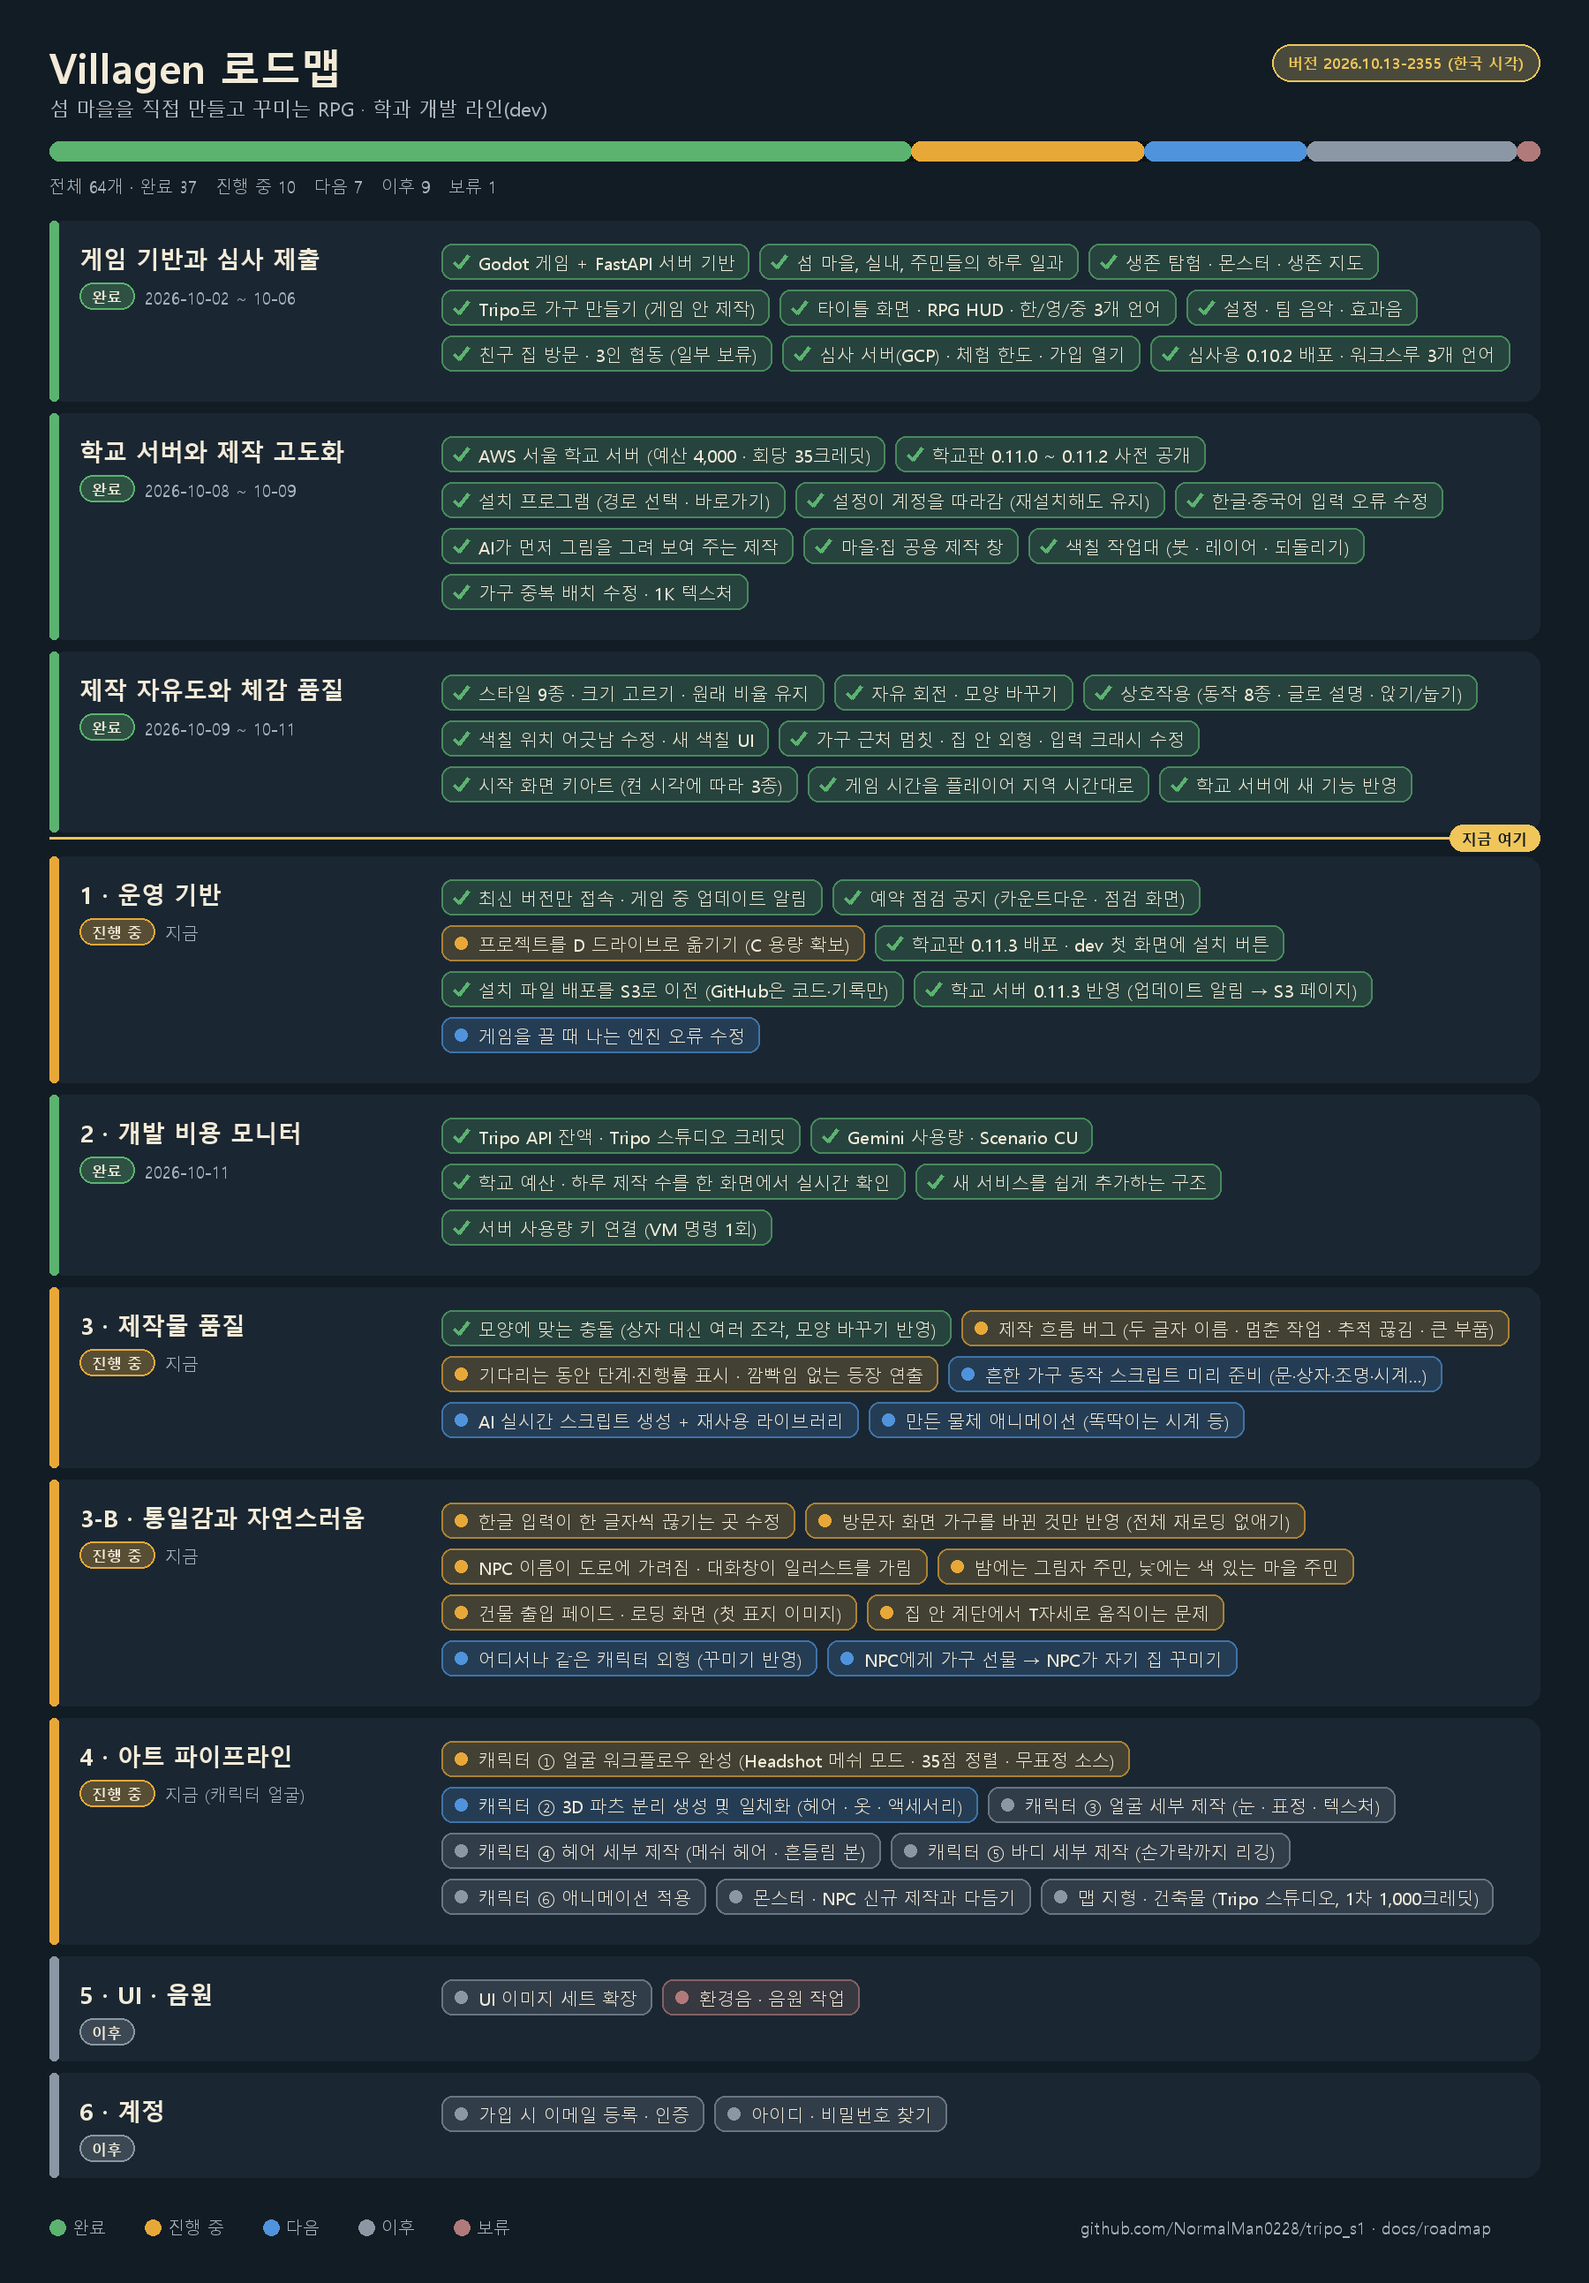
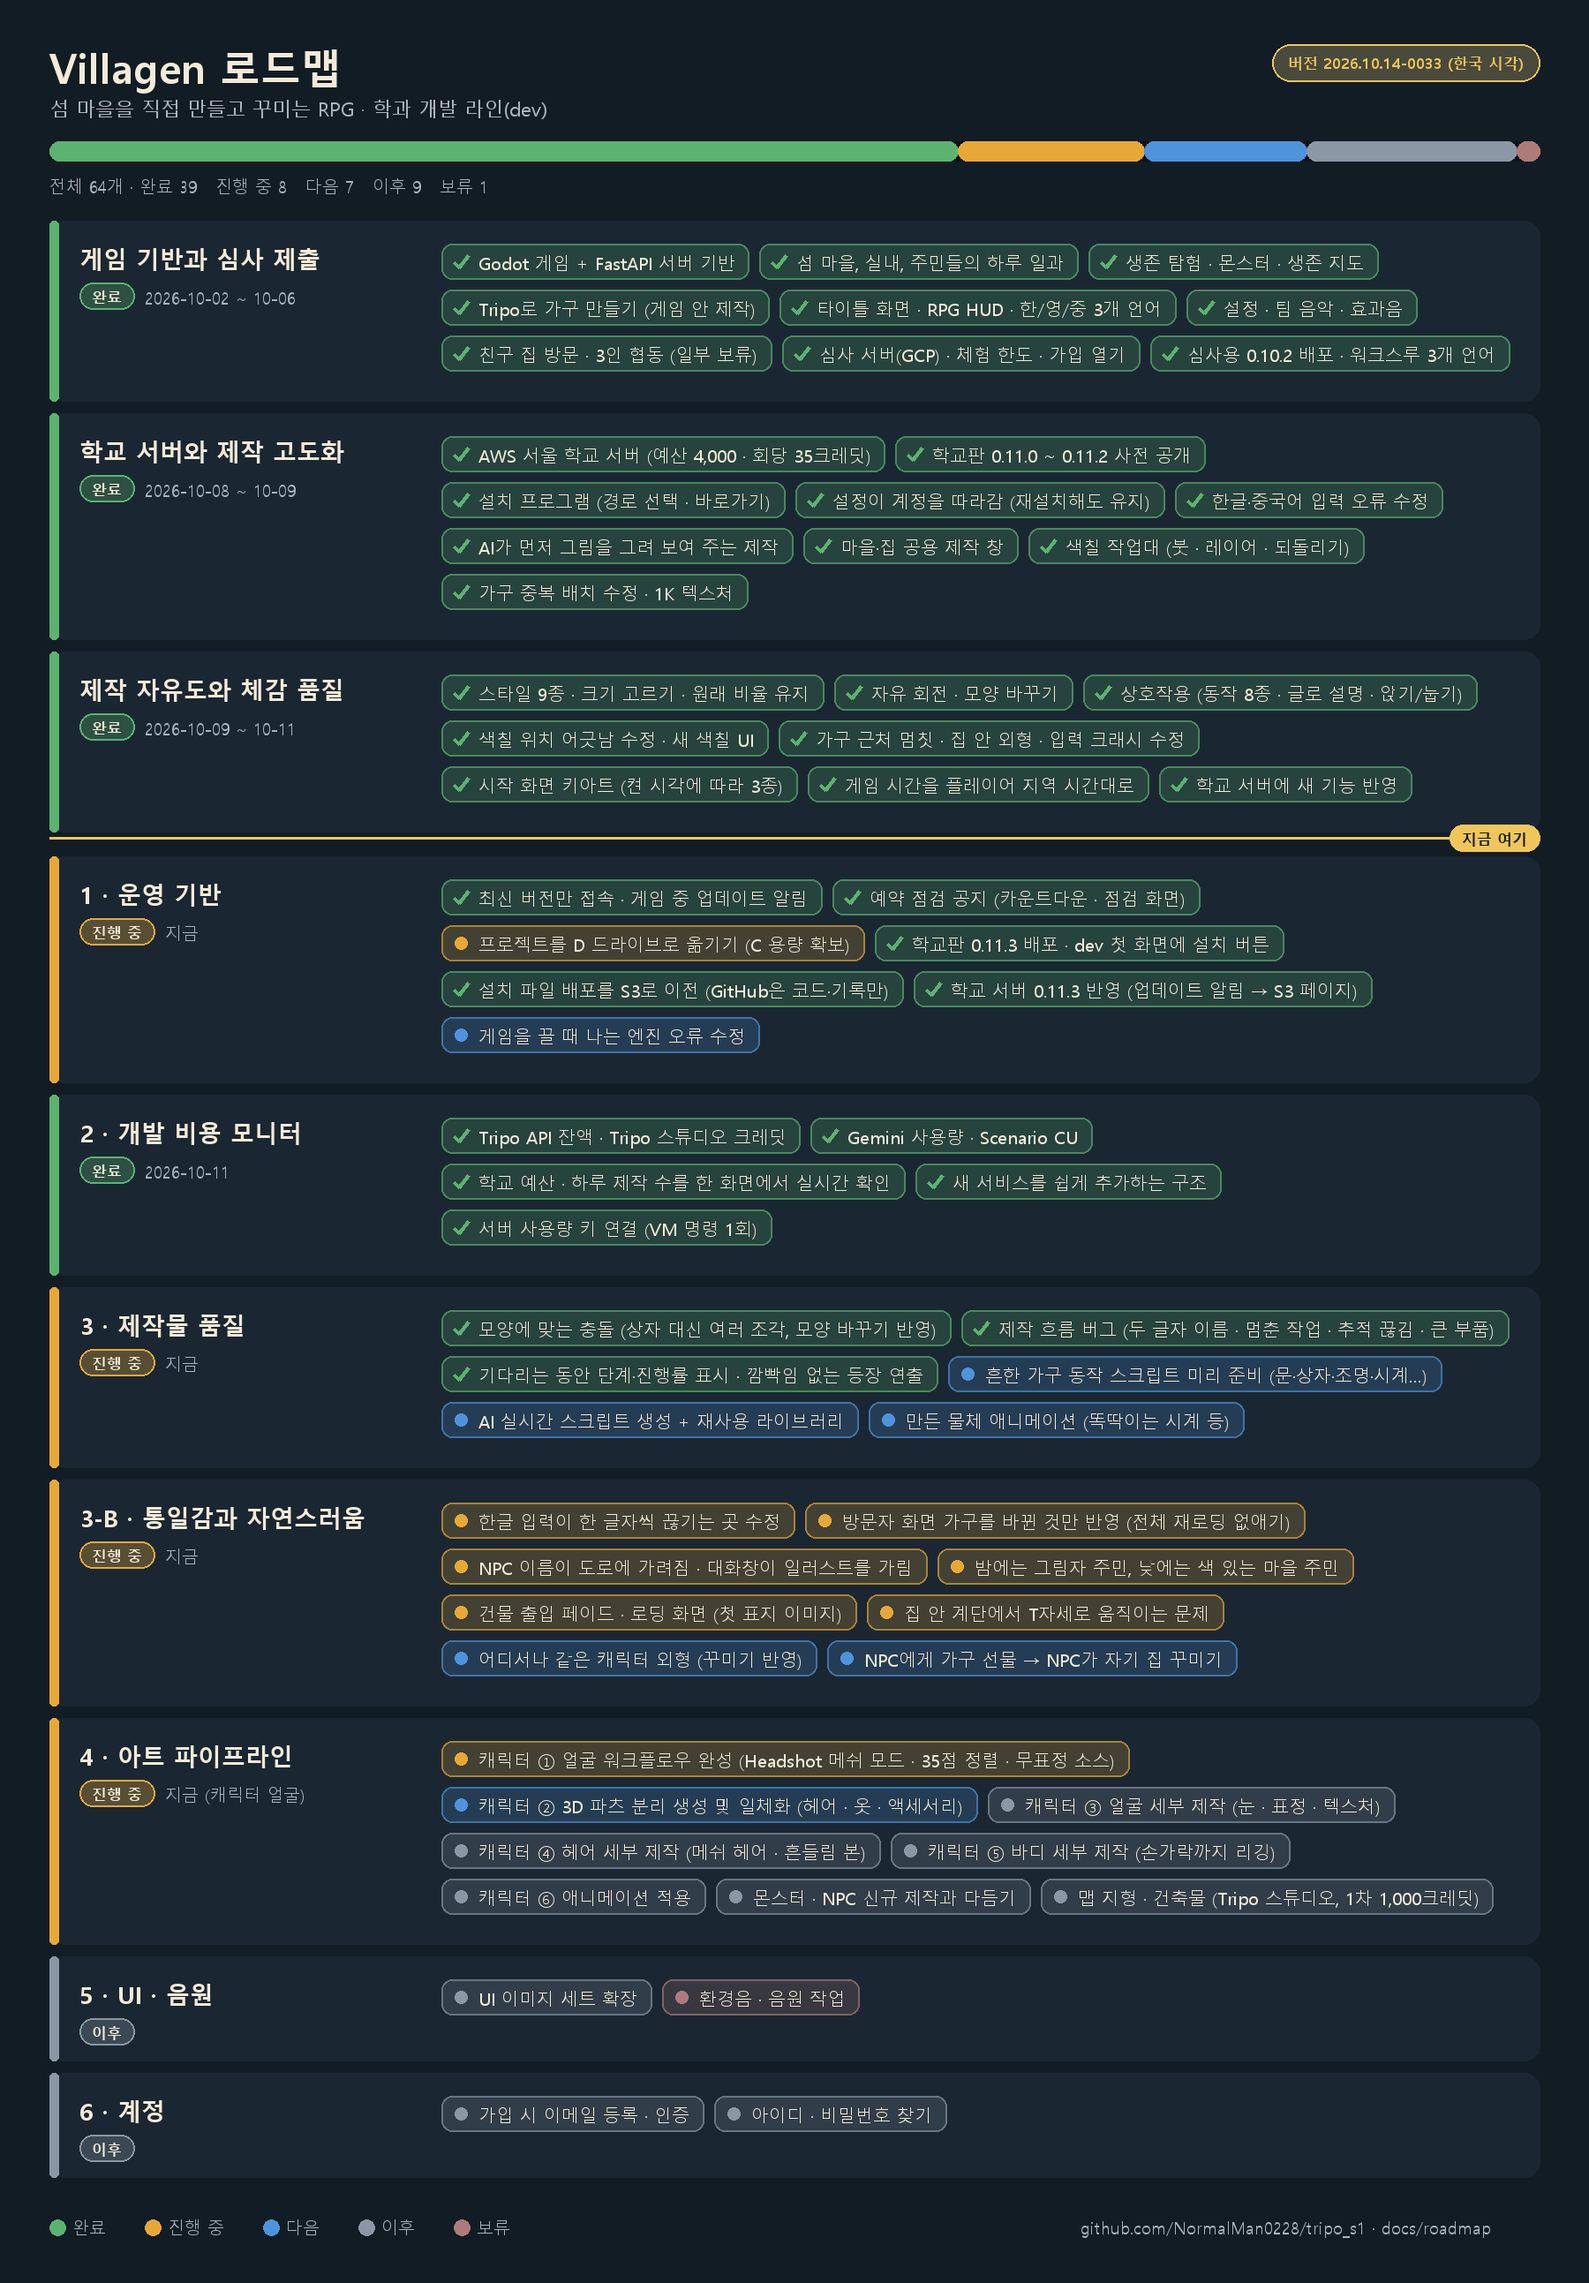
Roadmap and change log: crafting reliability and feel done

Changed region(s): [[0.5911, 0.5568, 0.9644, 0.5878], [0.28, 0.5878, 0.5911, 0.6187], [0.56, 0.0619, 0.6222, 0.0928]]

diff --git a/docs/roadmap/ROADMAP_KO.md b/docs/roadmap/ROADMAP_KO.md
@@ -1,8 +1,8 @@
 # Villagen 로드맵
 
-**버전 2026.10.13-2355** (한국 시각) · 섬 마을을 직접 만들고 꾸미는 RPG · 학과 개발 라인(dev)
+**버전 2026.10.14-0033** (한국 시각) · 섬 마을을 직접 만들고 꾸미는 RPG · 학과 개발 라인(dev)
 
-> 그림으로 보기: [VISUAL_KO.md](VISUAL_KO.md) · 전체 64개 중 완료 37 · 진행 중 10 · 다음 7 · 이후 9 · 보류 1
+> 그림으로 보기: [VISUAL_KO.md](VISUAL_KO.md) · 전체 64개 중 완료 39 · 진행 중 8 · 다음 7 · 이후 9 · 보류 1
 
 - [학교 서버 운영 안내](../SCHOOL_SERVER_KO.txt)
 - [제작 품질표](../CRAFT_QUALITY_KO.md)
@@ -63,8 +63,8 @@
 ## 3 · 제작물 품질  `진행 중` · 지금
 
 - [x] 모양에 맞는 충돌 (상자 대신 여러 조각, 모양 바꾸기 반영) (10-13)
-- [ ] 제작 흐름 버그 (두 글자 이름 · 멈춘 작업 · 추적 끊김 · 큰 부품) · *진행 중*
-- [ ] 기다리는 동안 단계·진행률 표시 · 깜빡임 없는 등장 연출 · *진행 중*
+- [x] 제작 흐름 버그 (두 글자 이름 · 멈춘 작업 · 추적 끊김 · 큰 부품) (10-14)
+- [x] 기다리는 동안 단계·진행률 표시 · 깜빡임 없는 등장 연출 (10-14)
 - [ ] 흔한 가구 동작 스크립트 미리 준비 (문·상자·조명·시계…) · *다음*
 - [ ] AI 실시간 스크립트 생성 + 재사용 라이브러리 · *다음*
 - [ ] 만든 물체 애니메이션 (똑딱이는 시계 등) · *다음*
@@ -105,6 +105,7 @@
 
 | 버전 (한국 시각) | 바뀐 점 |
 |---|---|
+| 2026.10.14-0033 | 제작 흐름 버그 6개와 단계 표시·등장 연출 완료 |
 | 2026.10.13-2355 | 게임 기능 손보기 시작: 제작 흐름, 통일감과 자연스러움 단계 추가 |
 | 2026.10.13-2135 | 설치 파일 다운로드 링크를 저장소에서 모두 정리 (GitHub 요청) |
 | 2026.10.13-1449 | 3단계 제작물 품질 시작: 모양에 맞는 충돌 완료 |

diff --git a/docs/roadmap/VISUAL_KO.md b/docs/roadmap/VISUAL_KO.md
@@ -1,7 +1,7 @@
 # Villagen 로드맵 (그림)
 
-**버전 2026.10.13-2355** (한국 시각) · 글로 보기: [ROADMAP_KO.md](ROADMAP_KO.md)
+**버전 2026.10.14-0033** (한국 시각) · 글로 보기: [ROADMAP_KO.md](ROADMAP_KO.md)
 
-![Villagen 로드맵 2026.10.13-2355](roadmap.png)
+![Villagen 로드맵 2026.10.14-0033](roadmap.png)
 
 초록 완료 · 주황 진행 중 · 파랑 다음 · 회색 이후 · 갈색 보류

diff --git a/docs/roadmap/README.md b/docs/roadmap/README.md
@@ -1,8 +1,8 @@
 # Villagen 로드맵
 
-**버전 2026.10.13-2355** (한국 시각)
+**버전 2026.10.14-0033** (한국 시각)
 
 - [그림으로 보기](VISUAL_KO.md)
-- [글로 보기](ROADMAP_KO.md) — 완료 37 · 진행 중 10 · 다음 7 · 이후 9
+- [글로 보기](ROADMAP_KO.md) — 완료 39 · 진행 중 8 · 다음 7 · 이후 9
 
 ![로드맵](roadmap.png)
